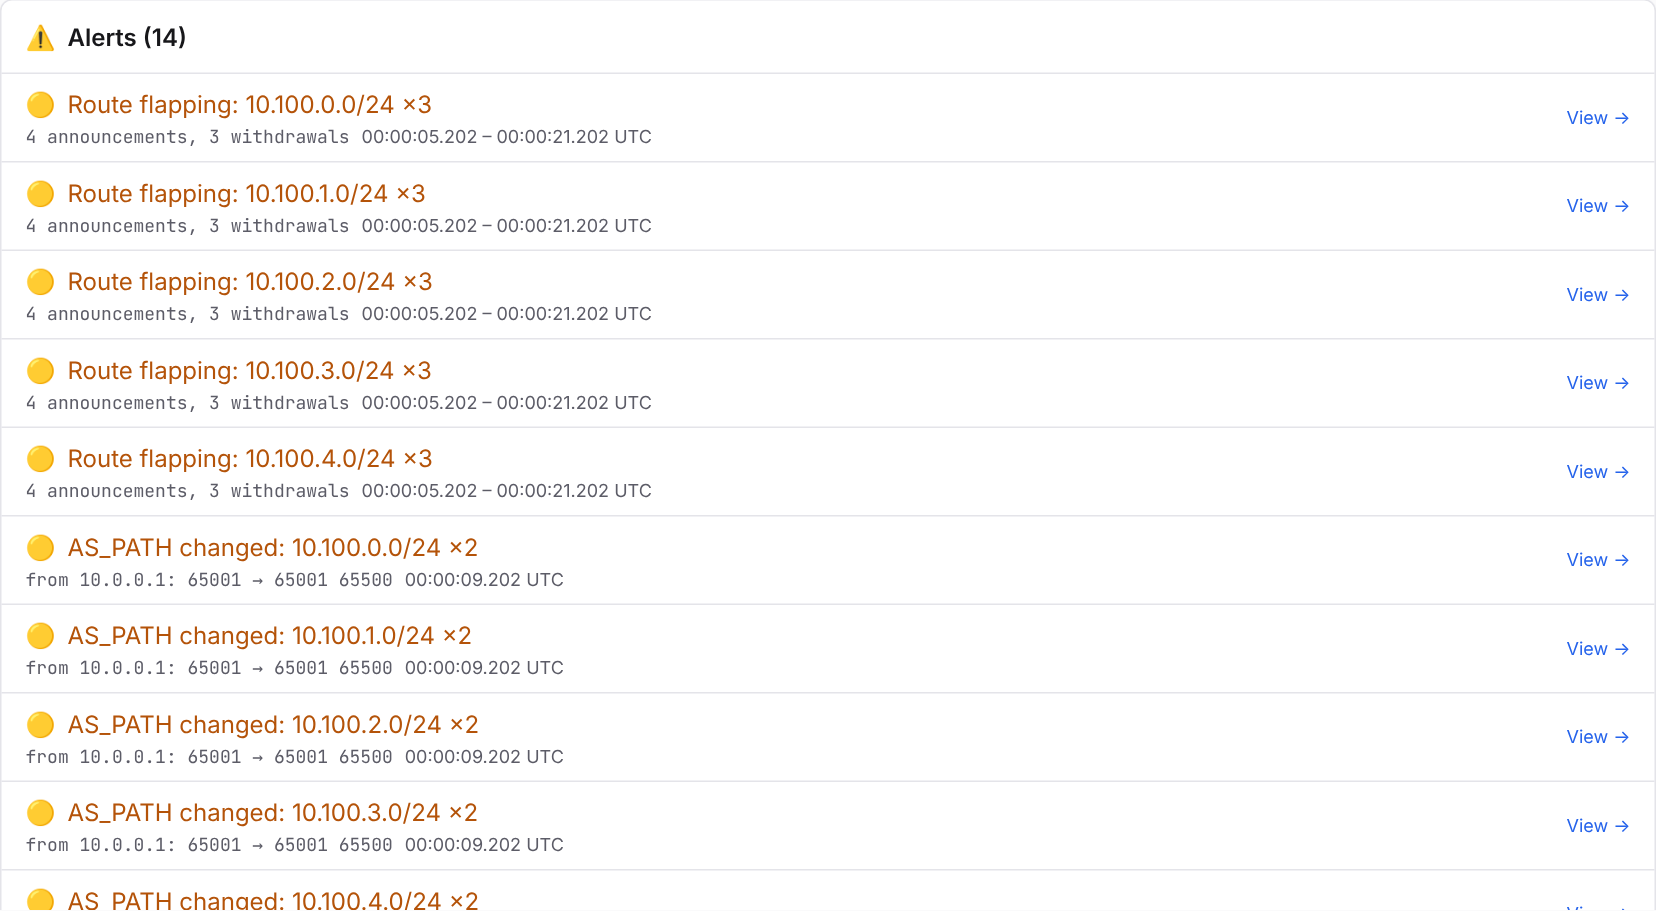
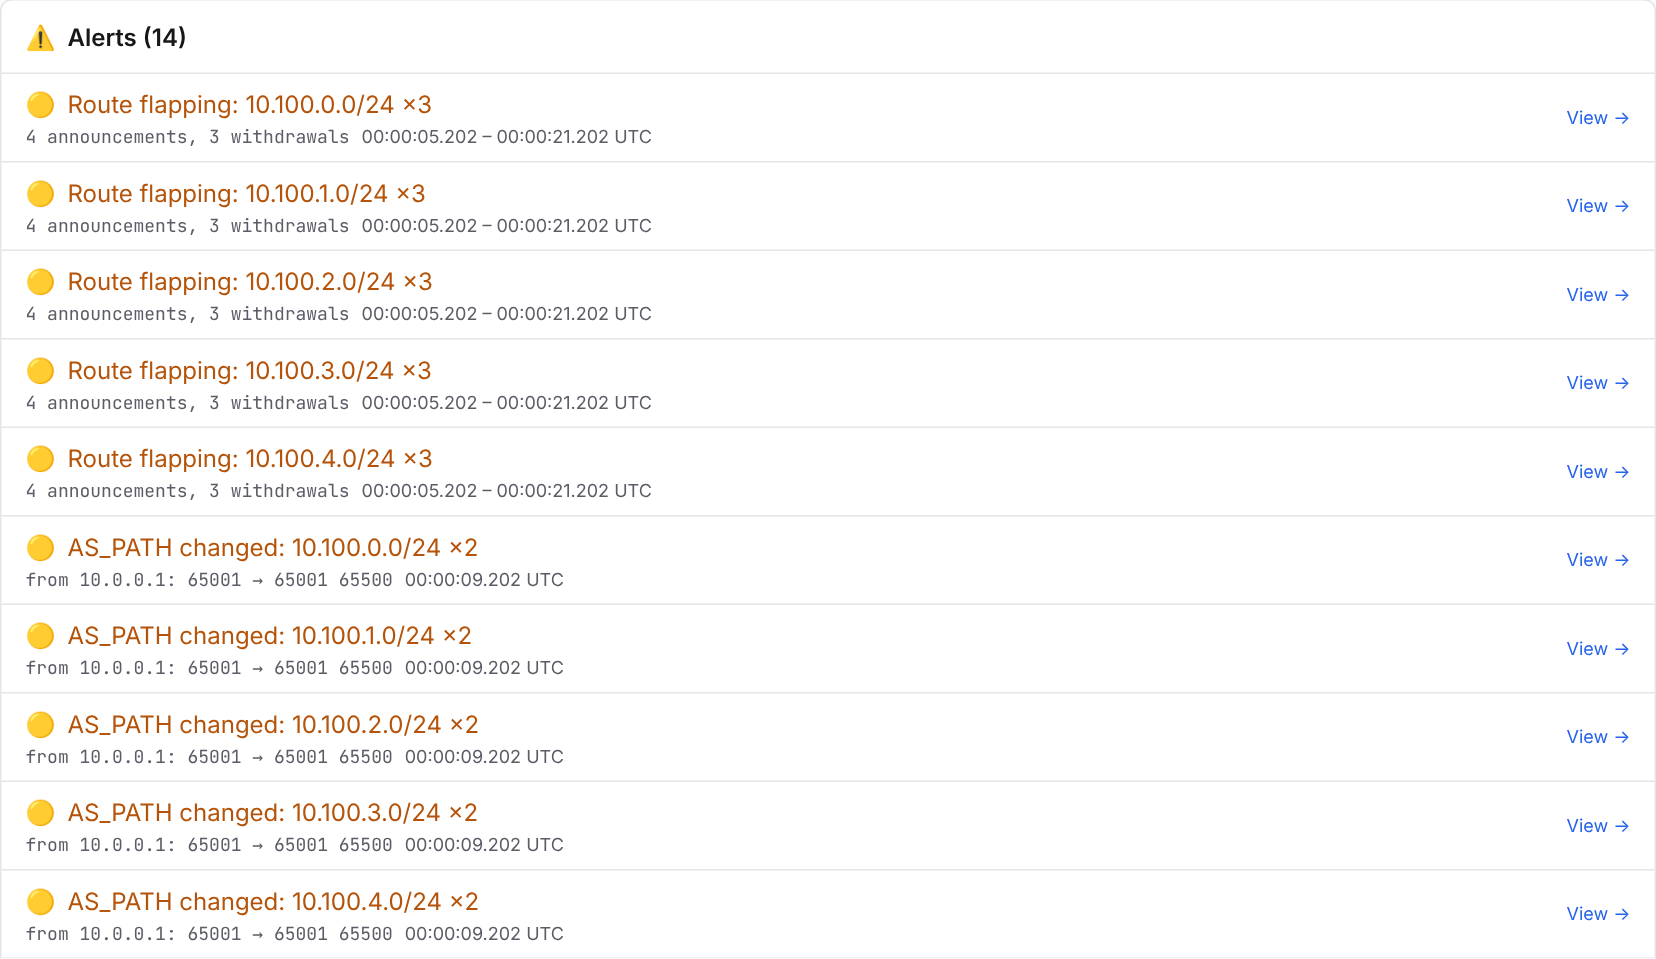
Compress the Dashboard summary cards into one strip and count messages honestly
Six equal cards set "Packets" beside the per-type counts as if it were their
total; it is not, since one TCP segment can carry several BGP messages. The
strip now states "N BGP packets (M messages)" and shows the per-type counts
as badges that still open Messages filtered to that type. A zero NOTIFICATION
count stays visible (dimmed) because it is a finding; ROUTE-REFRESH is left
out when absent.

The neighbour table's "Pkts" column counted messages and is now "Msgs". The
file name is no longer repeated next to the heading; the header shows it.

Closes #90

Claude-Session: https://claude.ai/code/session_016RsczsLRR1XyFcgTKUb7pD

diff --git a/src/components/dashboard/SummaryCards.tsx b/src/components/dashboard/SummaryCards.tsx
@@ -1,18 +1,24 @@
+import type { BgpMessageTypeName } from '../../lib/bgp/types'
 import type { SummaryData } from './types'
 
-interface SummaryCardDef {
-  key: keyof SummaryData['counts'] | 'total'
+interface TypeBadgeDef {
+  type: BgpMessageTypeName
   label: string
   colorClass: string
+  /**
+   * Whether a zero is worth showing. "No NOTIFICATION" is a finding — the
+   * sessions did not tear down — so the badge stays, dimmed. A capture without
+   * ROUTE-REFRESH says nothing at all, and is most captures, so the badge goes.
+   */
+  showZero: boolean
 }
 
-const CARD_DEFS: SummaryCardDef[] = [
-  { key: 'total', label: 'Packets', colorClass: 'text-strong' },
-  { key: 'OPEN', label: 'OPEN', colorClass: 'text-bgp-open' },
-  { key: 'UPDATE', label: 'UPDATE', colorClass: 'text-bgp-update' },
-  { key: 'NOTIFICATION', label: 'NOTIFICATION', colorClass: 'text-bgp-notification' },
-  { key: 'KEEPALIVE', label: 'KEEPALIVE', colorClass: 'text-bgp-keepalive' },
-  { key: 'ROUTE_REFRESH', label: 'ROUTE REFRESH', colorClass: 'text-bgp-route-refresh' },
+const TYPE_BADGES: TypeBadgeDef[] = [
+  { type: 'OPEN', label: 'OPEN', colorClass: 'bg-bgp-open/15 text-bgp-open', showZero: true },
+  { type: 'UPDATE', label: 'UPDATE', colorClass: 'bg-bgp-update/15 text-bgp-update', showZero: true },
+  { type: 'NOTIFICATION', label: 'NOTIFICATION', colorClass: 'bg-bgp-notification/15 text-bgp-notification', showZero: true },
+  { type: 'KEEPALIVE', label: 'KEEPALIVE', colorClass: 'bg-bgp-keepalive/15 text-bgp-keepalive', showZero: true },
+  { type: 'ROUTE_REFRESH', label: 'ROUTE-REFRESH', colorClass: 'bg-bgp-route-refresh/15 text-bgp-route-refresh', showZero: false },
 ]
 
 interface SummaryCardsProps {
@@ -20,23 +26,48 @@ interface SummaryCardsProps {
   onSelect: (filter: string | null) => void
 }
 
+/**
+ * The capture's size and message mix, as one strip.
+ *
+ * This used to be six equal cards, with "Packets" standing beside the per-type
+ * counts as if it were their total. It is not — one TCP segment can carry
+ * several BGP messages — so the counts never added up to it and every reader
+ * stopped to wonder why. Packets and messages are now stated side by side in
+ * one sentence, and the per-type badges read as a breakdown of the messages.
+ */
 export function SummaryCards({ summary, onSelect }: SummaryCardsProps) {
+  const messageTotal = Object.values(summary.counts).reduce((a, b) => a + b, 0)
+
   return (
-    <div className="grid grid-cols-2 sm:grid-cols-3 lg:grid-cols-6 gap-3">
-      {CARD_DEFS.map(({ key, label, colorClass }) => {
-        const value = key === 'total' ? summary.total : summary.counts[key]
-        const filter = key === 'total' ? null : `type=${key}`
-        return (
-          <button
-            key={label}
-            onClick={() => onSelect(filter)}
-            className="bg-surface rounded-lg shadow-sm border border-hair p-4 text-left hover:border-hair-strong hover:shadow-md transition-all"
-          >
-            <div className={`text-2xl font-bold font-mono ${colorClass}`}>{value.toLocaleString()}</div>
-            <div className="text-xs text-muted mt-1 uppercase tracking-wide">{label}</div>
-          </button>
-        )
-      })}
+    <div
+      data-testid="summary-strip"
+      className="bg-surface rounded-lg shadow-sm border border-hair px-4 py-3 flex flex-wrap items-center gap-x-4 gap-y-2"
+    >
+      <button
+        onClick={() => onSelect(null)}
+        className="flex items-baseline gap-1.5 rounded hover:text-accent transition-colors"
+      >
+        <span className="text-xl font-bold font-mono text-strong">{summary.total.toLocaleString()}</span>
+        <span className="text-sm text-muted">BGP packets</span>
+        <span className="text-sm text-dim">({messageTotal.toLocaleString()} messages)</span>
+      </button>
+      <div className="flex flex-wrap items-center gap-1.5 sm:ml-auto">
+        {TYPE_BADGES.map(({ type, label, colorClass, showZero }) => {
+          const value = summary.counts[type]
+          if (value === 0 && !showZero) return null
+          return (
+            <button
+              key={type}
+              onClick={() => onSelect(`type=${type}`)}
+              className={`px-2 py-1 rounded text-xs font-medium hover:brightness-95 transition ${colorClass} ${
+                value === 0 ? 'opacity-50' : ''
+              }`}
+            >
+              {label} <span className="font-mono font-bold">{value.toLocaleString()}</span>
+            </button>
+          )
+        })}
+      </div>
     </div>
   )
 }

diff --git a/src/pages/DashboardPage.tsx b/src/pages/DashboardPage.tsx
@@ -108,7 +108,7 @@ function computeTimeline(packets: BgpPacket[]): TimelineData {
 }
 
 export function DashboardPage() {
-  const { packets, allPackets, fileName } = useApp()
+  const { packets, allPackets } = useApp()
   const navigate = useNavigate()
 
   const summary = useMemo(() => computeSummary(packets), [packets])
@@ -130,7 +130,7 @@ export function DashboardPage() {
   const timeline = useMemo(() => computeTimeline(packets), [packets])
 
   const handleSummarySelect = (filter: string | null) => {
-    // The PACKETS card means "everything": start from a clean list rather than
+    // The packet total means "everything": start from a clean list rather than
     // whatever Messages was last left showing.
     if (filter) navigate(`/messages?filter=${encodeURIComponent(filter)}`)
     else navigate('/messages', { state: { fresh: true } })
@@ -143,12 +143,10 @@ export function DashboardPage() {
   return (
     <div className="flex-1 overflow-auto bg-canvas">
       <div className="max-w-6xl mx-auto px-6 py-4 space-y-4">
-        <div className="flex items-center justify-between">
-          <div className="flex items-center gap-2">
-            <span className="text-xl">📊</span>
-            <h1 className="text-lg font-semibold text-strong">Dashboard</h1>
-          </div>
-          {fileName && <span className="text-sm text-muted">📁 {fileName}</span>}
+        {/* The file name is not repeated here: the header already shows it. */}
+        <div className="flex items-center gap-2">
+          <span className="text-xl">📊</span>
+          <h1 className="text-lg font-semibold text-strong">Dashboard</h1>
         </div>
 
         <SummaryCards summary={summary} onSelect={handleSummarySelect} />

diff --git a/tests/e2e/dashboard.e2e.ts b/tests/e2e/dashboard.e2e.ts
@@ -17,6 +17,24 @@ test.describe('landing on a freshly loaded capture', () => {
     await expect(page.getByRole('heading', { name: 'Timeline' })).toBeInViewport()
   })
 
+  test('states packets and messages apart, and each type count opens Messages', async ({ page }) => {
+    const strip = page.getByTestId('summary-strip')
+    // One TCP segment can carry several messages, so the two totals differ and
+    // the strip must say which is which rather than set them side by side.
+    await expect(strip).toContainText(/\d+\s*BGP packets\s*\(\d+ messages\)/)
+    // A capture without a teardown says so; one without ROUTE-REFRESH says nothing.
+    await expect(strip.getByRole('button', { name: /^NOTIFICATION \d+$/ })).toBeVisible()
+    await expect(strip.getByRole('button', { name: /^ROUTE-REFRESH/ })).toHaveCount(0)
+
+    await strip.getByRole('button', { name: /^UPDATE \d+$/ }).click()
+    await page.waitForURL(/\/messages\?filter=type%3DUPDATE/)
+  })
+
+  test('the neighbour table counts messages and says so', async ({ page }) => {
+    await expect(page.getByRole('columnheader', { name: 'Msgs' })).toBeVisible()
+    await expect(page.getByRole('columnheader', { name: 'Pkts' })).toHaveCount(0)
+  })
+
   test('shows the five worst alerts and folds the rest', async ({ page }) => {
     const views = page.getByRole('button', { name: 'View →' })
     await expect(views).toHaveCount(5)

diff --git a/src/components/dashboard/NeighborSummaryTable.tsx b/src/components/dashboard/NeighborSummaryTable.tsx
@@ -34,7 +34,7 @@ export function NeighborSummaryTable({ rows }: NeighborSummaryTableProps) {
             <thead className="bg-surface-sunken">
               <tr className="text-left text-muted">
                 <th className="px-4 py-2 font-medium">Neighbor Pair</th>
-                <th className="px-3 py-2 font-medium text-right">Pkts</th>
+                <th className="px-3 py-2 font-medium text-right" title="BGP messages exchanged by the pair">Msgs</th>
                 <th className="px-3 py-2 font-medium text-right">OPEN</th>
                 <th className="px-3 py-2 font-medium text-right">UPD</th>
                 <th className="px-3 py-2 font-medium text-right">NOTIF</th>

diff --git a/src/pages/manual/manual.ja.md b/src/pages/manual/manual.ja.md
@@ -39,7 +39,7 @@ BGPShark は、パケットキャプチャを解析して BGP セッションの
 
 ### Dashboard {#dashboard}
 
-キャプチャを読み込むと最初にこの画面が開きます。メッセージ件数、タイムライン、ネイバー一覧表、および **Alerts** パネルを表示します。アラートは重要度順に並び、パケット単位ではなく問題単位で集約されます（たとえば拒否された OPEN の 40 回リトライは、回数 40 の 1 行として表示されます）。上位 5 件のみ表示され、**Show N more alerts** で残りを展開できます。
+キャプチャを読み込むと最初にこの画面が開きます。パケット数とメッセージ数、およびメッセージ種別ごとの件数（1 つの TCP パケットに複数の BGP メッセージが入ることがあるため、2 つの合計は一致しません。種別をクリックするとそのメッセージ一覧が開きます）、タイムライン、ネイバー一覧表、および **Alerts** パネルを表示します。アラートは重要度順に並び、パケット単位ではなく問題単位で集約されます（たとえば拒否された OPEN の 40 回リトライは、回数 40 の 1 行として表示されます）。上位 5 件のみ表示され、**Show N more alerts** で残りを展開できます。
 
 NOTIFICATION、セッションフラップ、Withdraw バースト、経路フラップ、同一ピアからの AS_PATH 変化、EVPN の MAC ムーブ、Graceful Restart、NOTIFICATION なしの TCP 切断、片方向セッション、TCP 接続後に BGP 応答がないケースを自動で検出します。各アラートの **View →** をクリックすると、適切なフィルタが適用された状態で該当パケットへ移動します。
 

diff --git a/src/pages/manual/manual.md b/src/pages/manual/manual.md
@@ -39,7 +39,7 @@ Each screen is designed around a specific troubleshooting question. If you are n
 
 ### Dashboard
 
-A loaded capture opens here. Displays message counts, a timeline, a neighbor summary table, and the **Alerts** panel. Alerts are sorted by severity and grouped per problem rather than per packet (for example, 40 rejected OPEN retries appear as a single row with a count of 40). The five most severe rows are shown; **Show N more alerts** expands the rest.
+A loaded capture opens here. Displays the packet and message totals with a count per message type (one TCP packet can carry several BGP messages, so the two totals differ; click a type to list those messages), a timeline, a neighbor summary table, and the **Alerts** panel. Alerts are sorted by severity and grouped per problem rather than per packet (for example, 40 rejected OPEN retries appear as a single row with a count of 40). The five most severe rows are shown; **Show N more alerts** expands the rest.
 
 Alerts detect NOTIFICATIONs, session flapping, withdrawal bursts, route flapping, AS_PATH changes from the same peer, EVPN MAC moves, graceful restarts, silent TCP teardowns, one-way sessions, and TCP connections that receive no BGP reply. Click **View →** on any alert to jump straight to the relevant packet with an appropriate filter applied.
 
